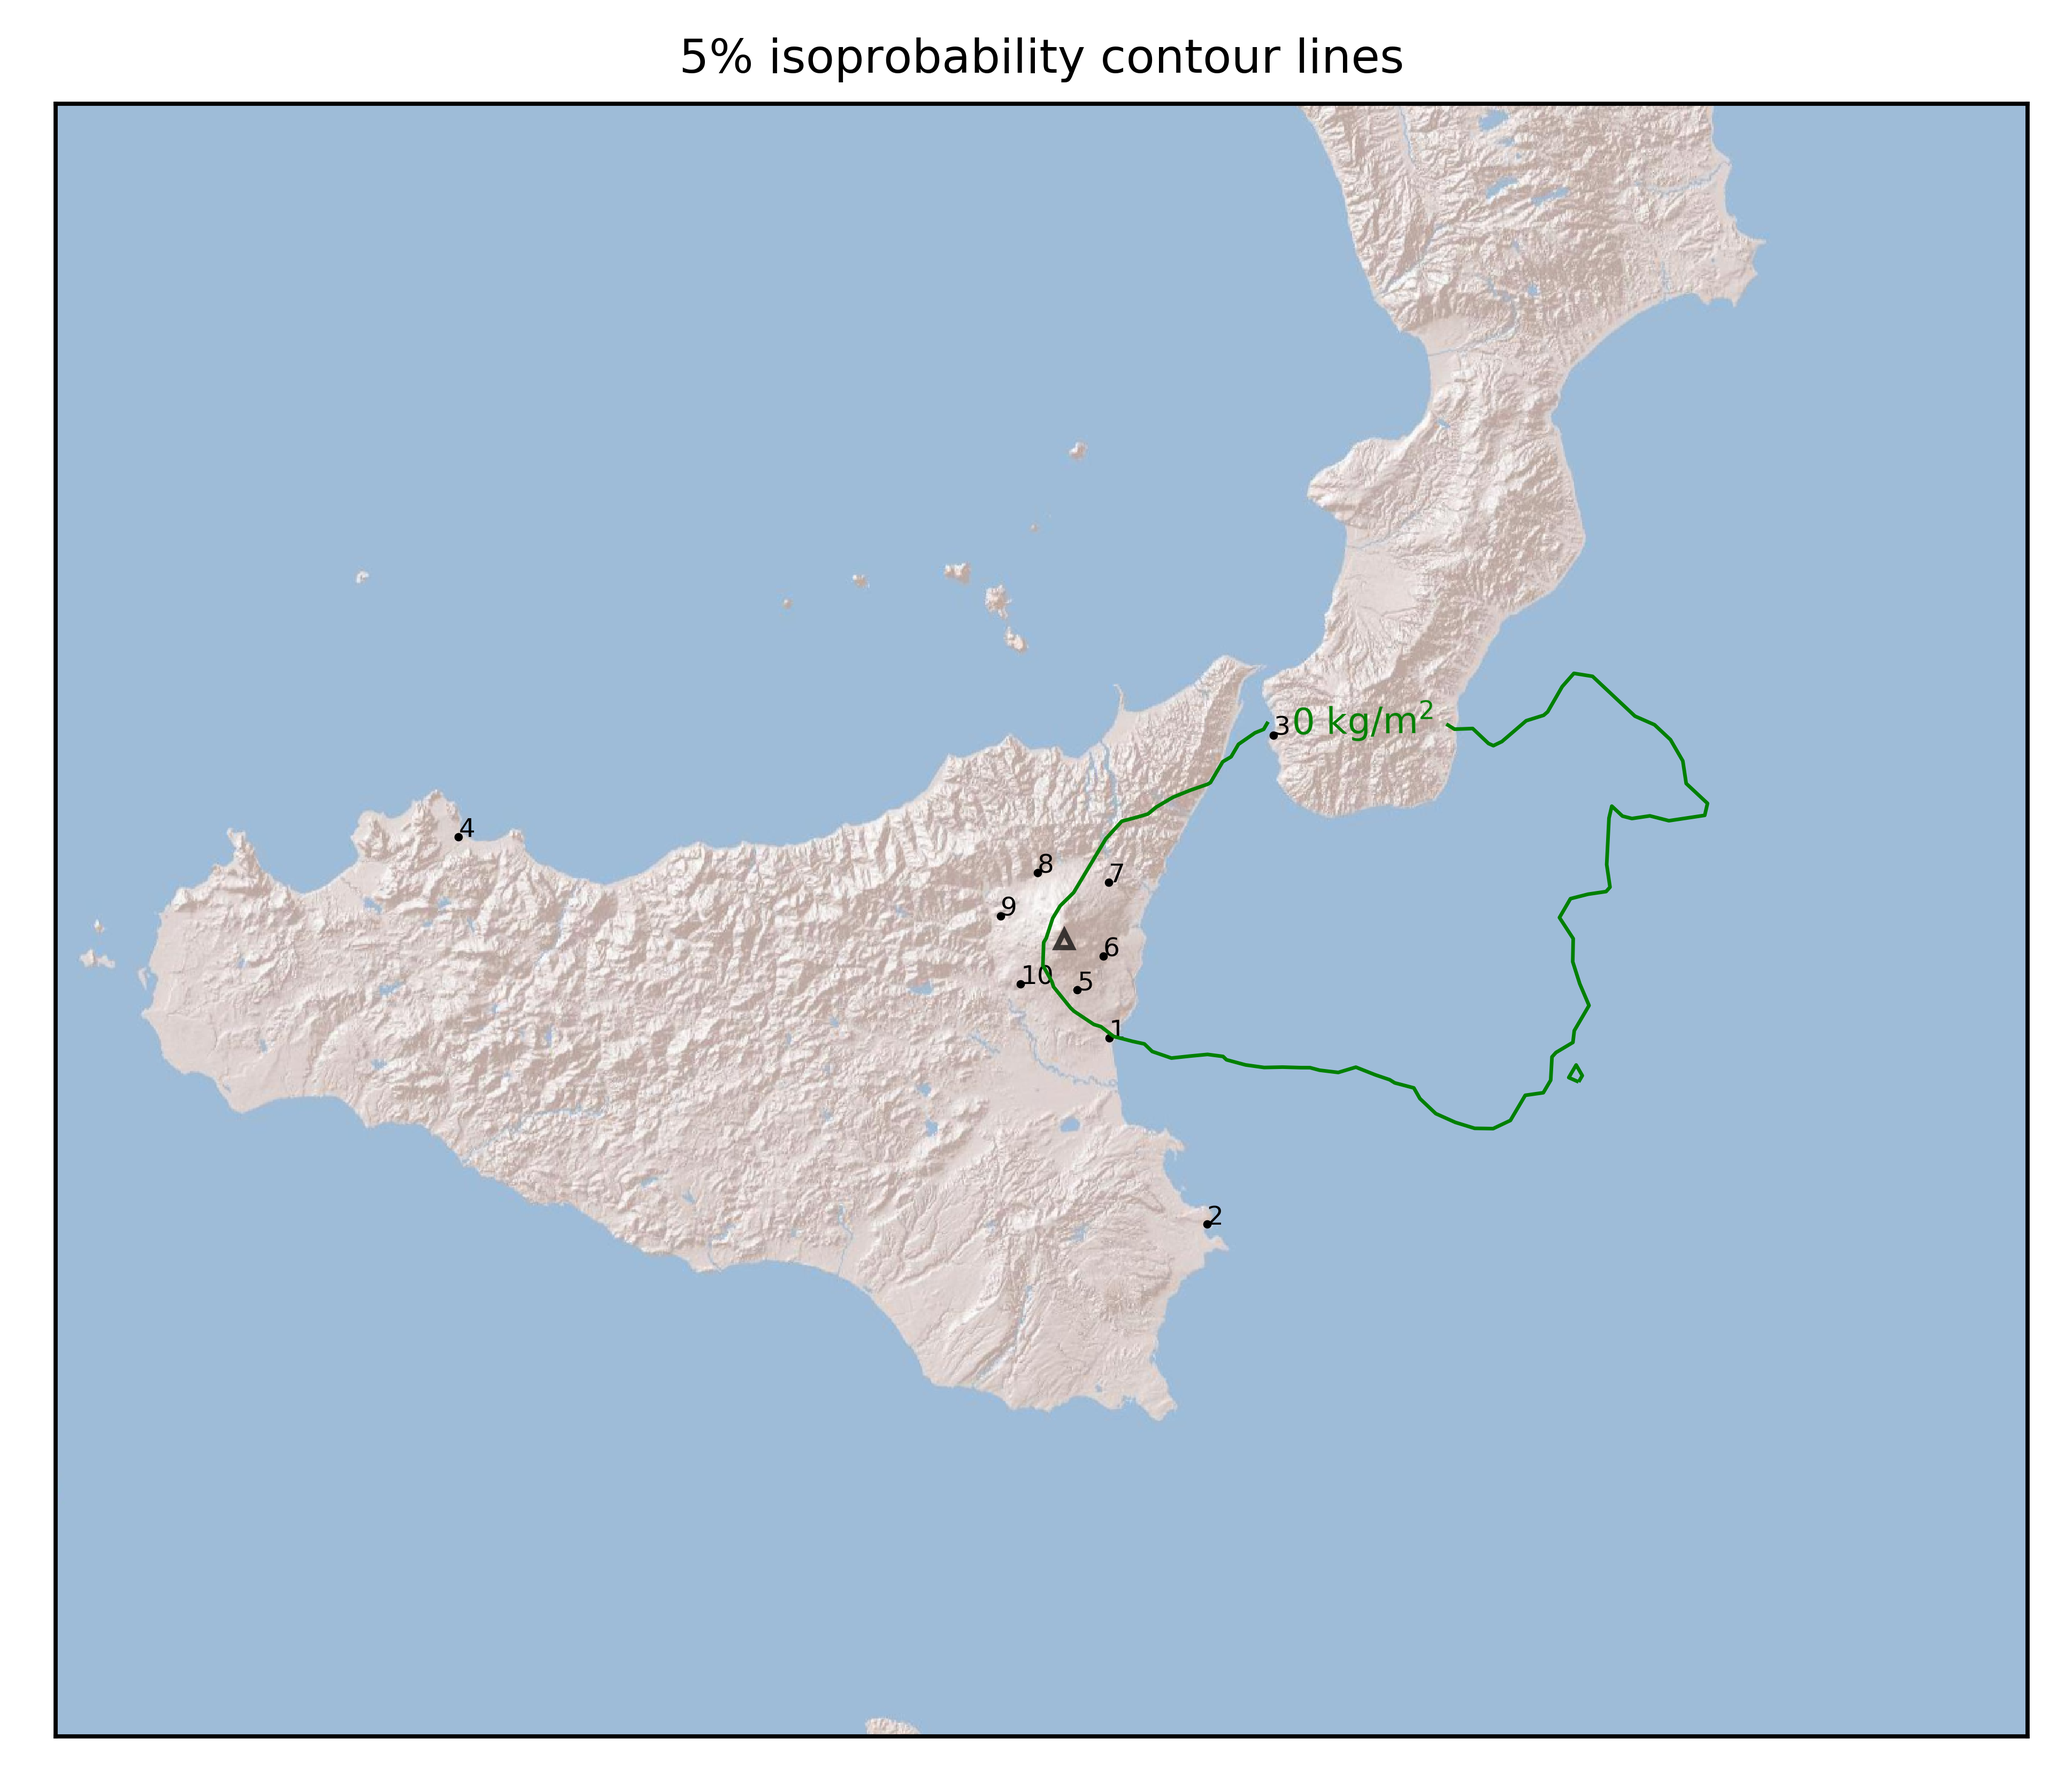
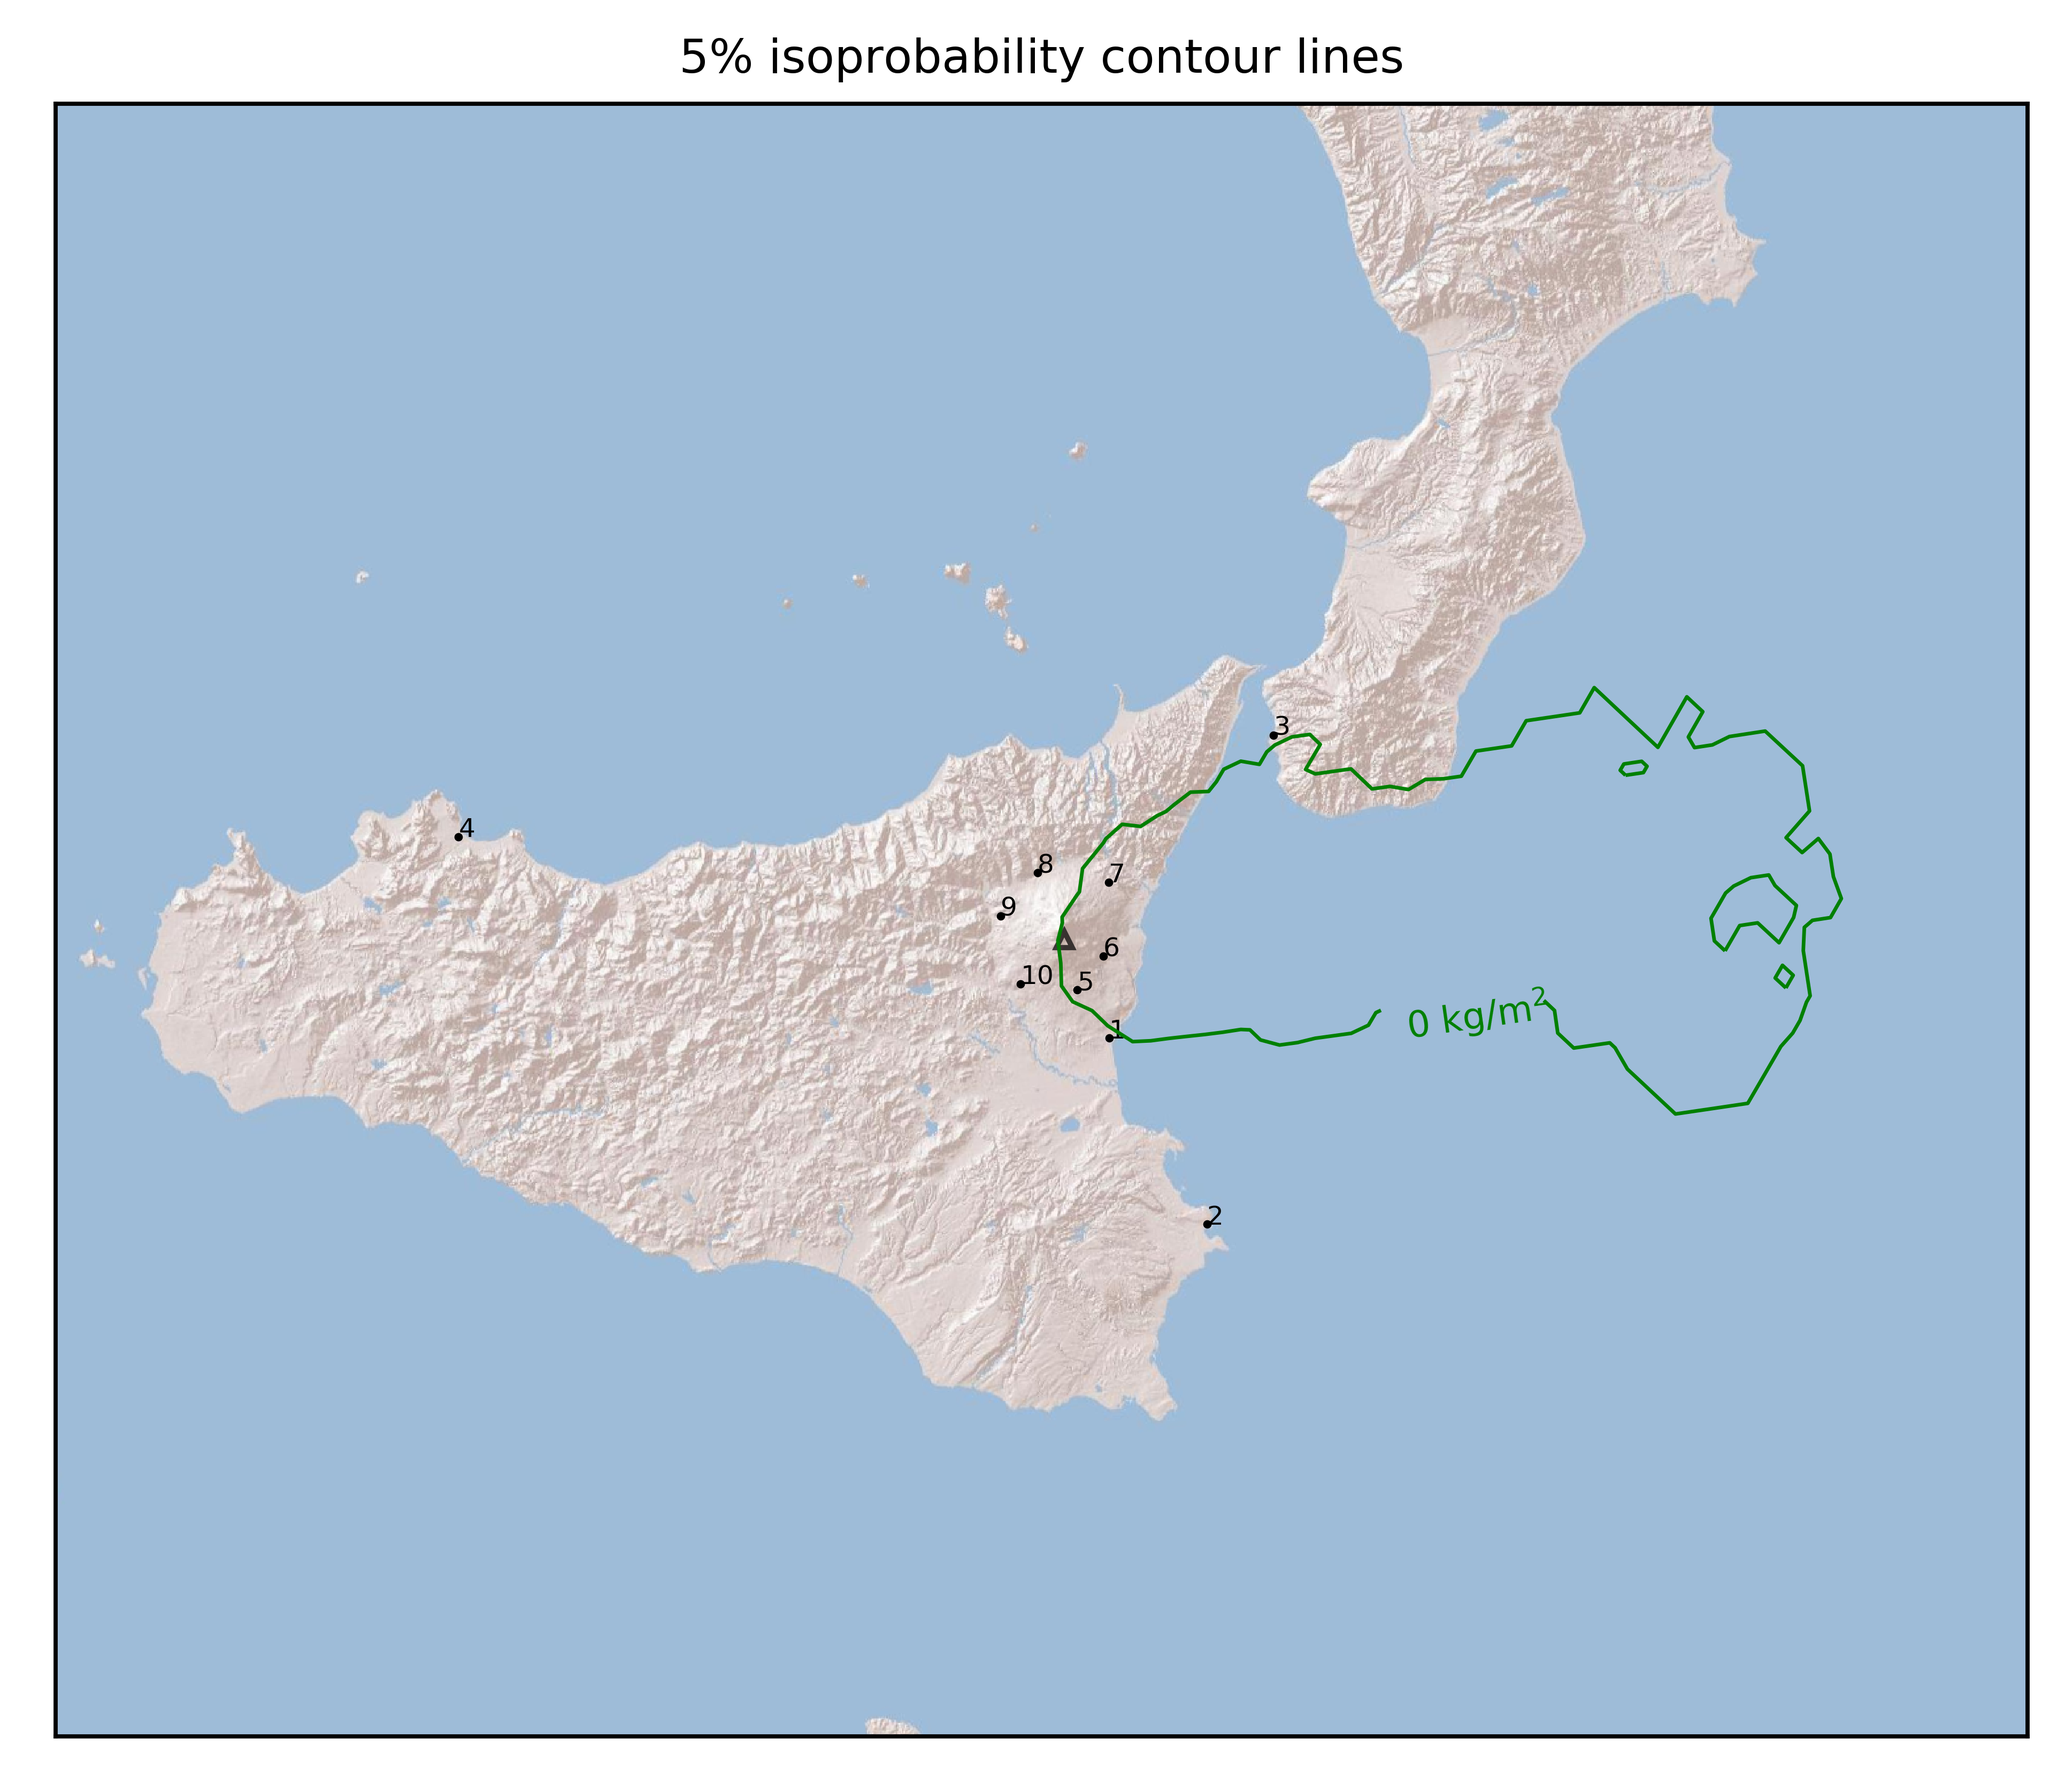
upload results

diff --git a/FORECAST_RESULTS/20210628_1441Z/README.md b/FORECAST_RESULTS/20210628_1441Z/README.md
@@ -11,6 +11,7 @@ Contents
 	* [Forecast at 2021-06-28 23:40 Z](#forecast-at-2021-06-28-2340-z)
 	* [Forecast at 2021-06-29 02:40 Z](#forecast-at-2021-06-29-0240-z)
 	* [Forecast at 2021-06-28 17:40 Z](#forecast-at-2021-06-28-1740-z)
+	* [Forecast at 2021-06-28 20:40 Z](#forecast-at-2021-06-28-2040-z)
 
 # Forecast products
 
@@ -243,6 +244,52 @@ Contents
 
 ### Atmosphere 2021-06-28 17:40 Z
   
-![](./figures/probability_air_2021_06_28_1740_scenario_1_conclev_1.png)  
+![](./figures/probability_air_2021_06_28_1740_scenario_1_conclev_1.png)
+## Forecast at 2021-06-28 20:40 Z
+  
+
+|Eruption start [Z]|Eruption end [Z]|Forecast time [Z]|Column height asl [m]|
+| :--- | :--- | :--- | :--- |
+|2021-06-28 14:40:00|2021-06-28 15:50:00|2021-06-28 20:40:00|None|
+  
+  
+
+|Percentile|MER [kg/s¹]|Mass in the air [kg]|Mass on the ground [kg]|
+| :--- | :--- | :--- | :--- |
+|5th|0.00e+00|3.11e-12|3.90e+05|
+|50th|0.00e+00|3.76e-01|4.03e+05|
+|95th|0.00e+00|1.62e+05|1.52e+07|
+  
+
+### Ground 2021-06-28 20:40 Z
+  
+![](./figures/probability_grd_2021_06_28_2040_scenario_1.png)  
+  
+  
+  
+  
+  
+  
+  
+  
+  
+
+|Location|Ground load [kg/m²] 5th perc|Ground load [kg/m²] 50th perc|Ground load [kg/m²] 95th perc|
+| :--- | :--- | :--- | :--- |
+|Catania AP (1)|0.00e+00|0.00e+00|2.19e-06|
+|Siracusa (2)|0.00e+00|0.00e+00|0.00e+00|
+|Reggio Calabria AP (3)|0.00e+00|0.00e+00|1.71e-06|
+|Palermo AP (4)|0.00e+00|0.00e+00|0.00e+00|
+|Nicolosi (5)|0.00e+00|0.00e+00|4.37e-05|
+|Zafferana (6)|7.39e-05|5.18e-04|9.70e-03|
+|Linguaglossa (7)|0.00e+00|1.40e-05|5.17e-04|
+|Randazzo (8)|0.00e+00|0.00e+00|0.00e+00|
+|Bronte (9)|0.00e+00|0.00e+00|0.00e+00|
+|Biancavilla (10)|0.00e+00|0.00e+00|0.00e+00|
+  
+
+### Atmosphere 2021-06-28 20:40 Z
+  
+![](./figures/probability_air_2021_06_28_2040_scenario_1_conclev_1.png)  
 Go to [Supplementary page](Supplementary_page.md)  
 Go to [Main directory](https://github.com/federicapardini/Real_time_ash_forecast)
